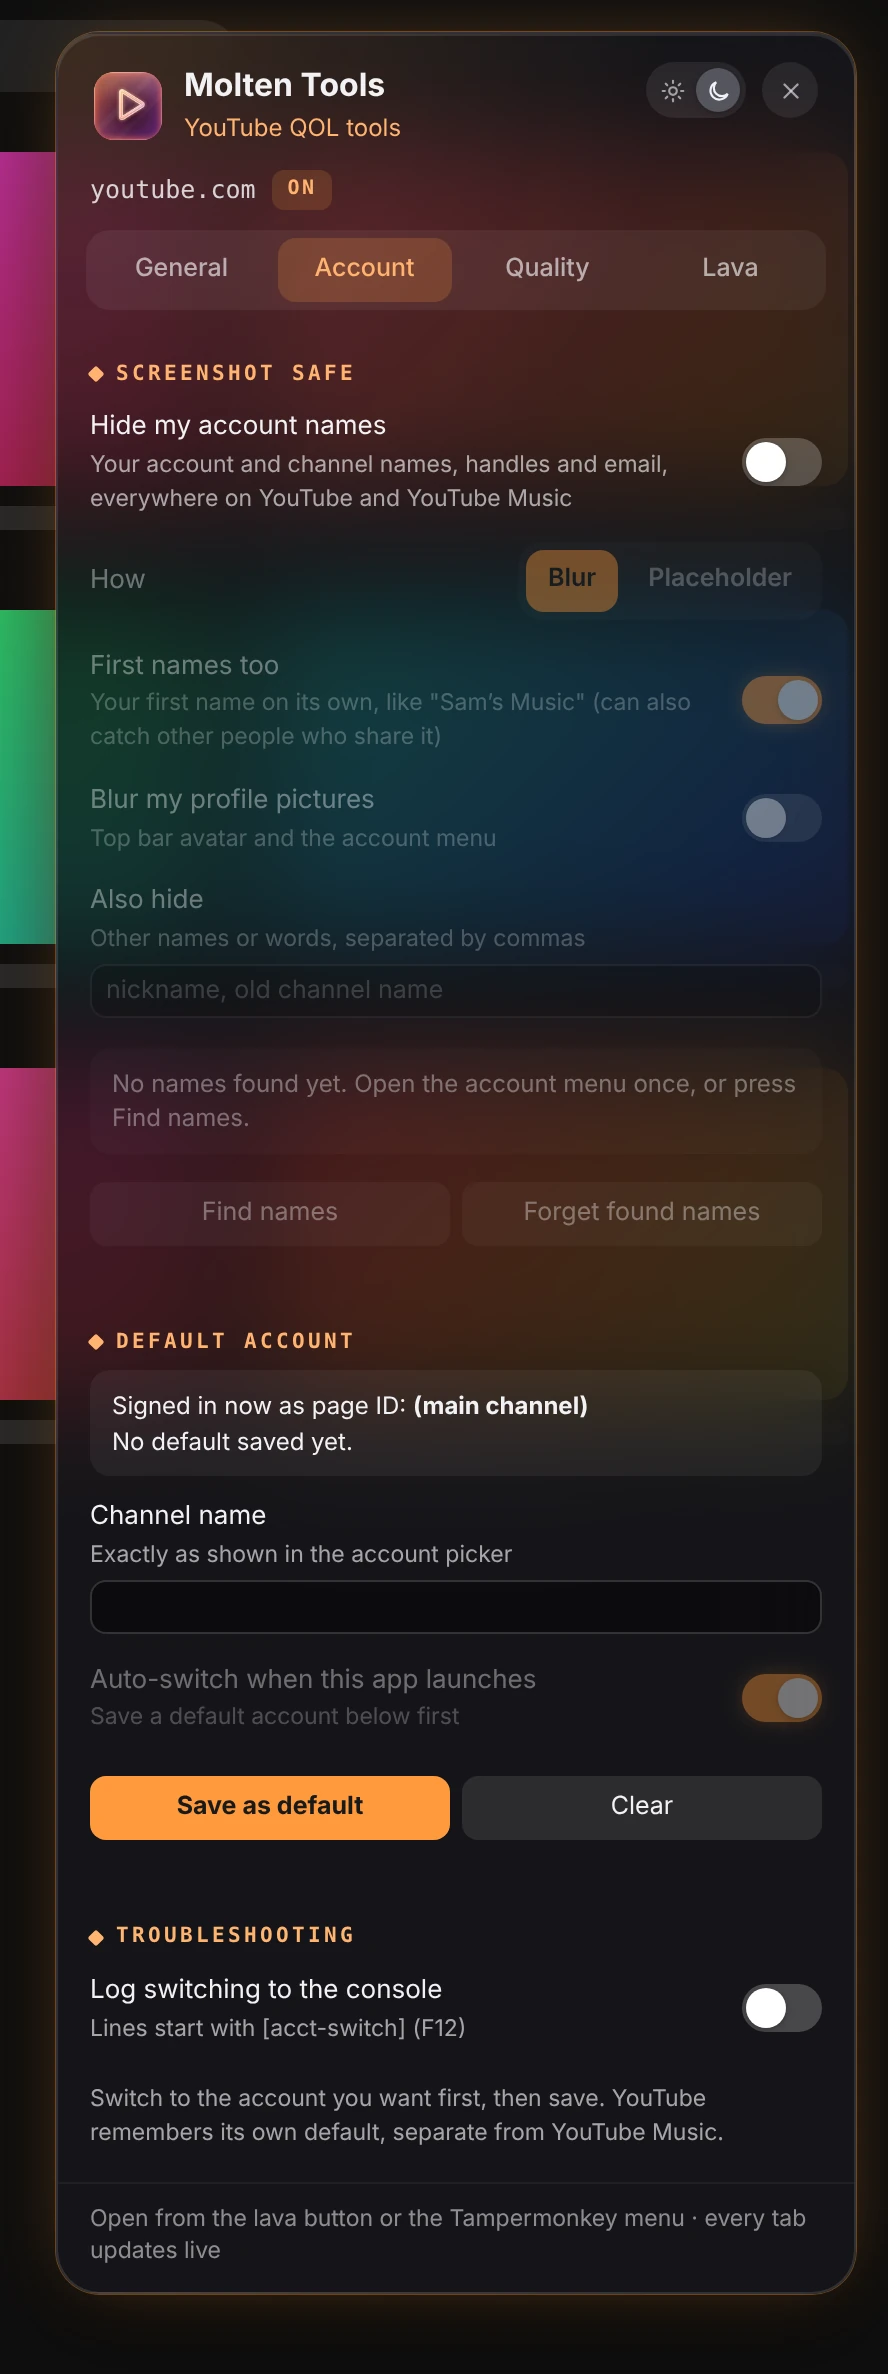
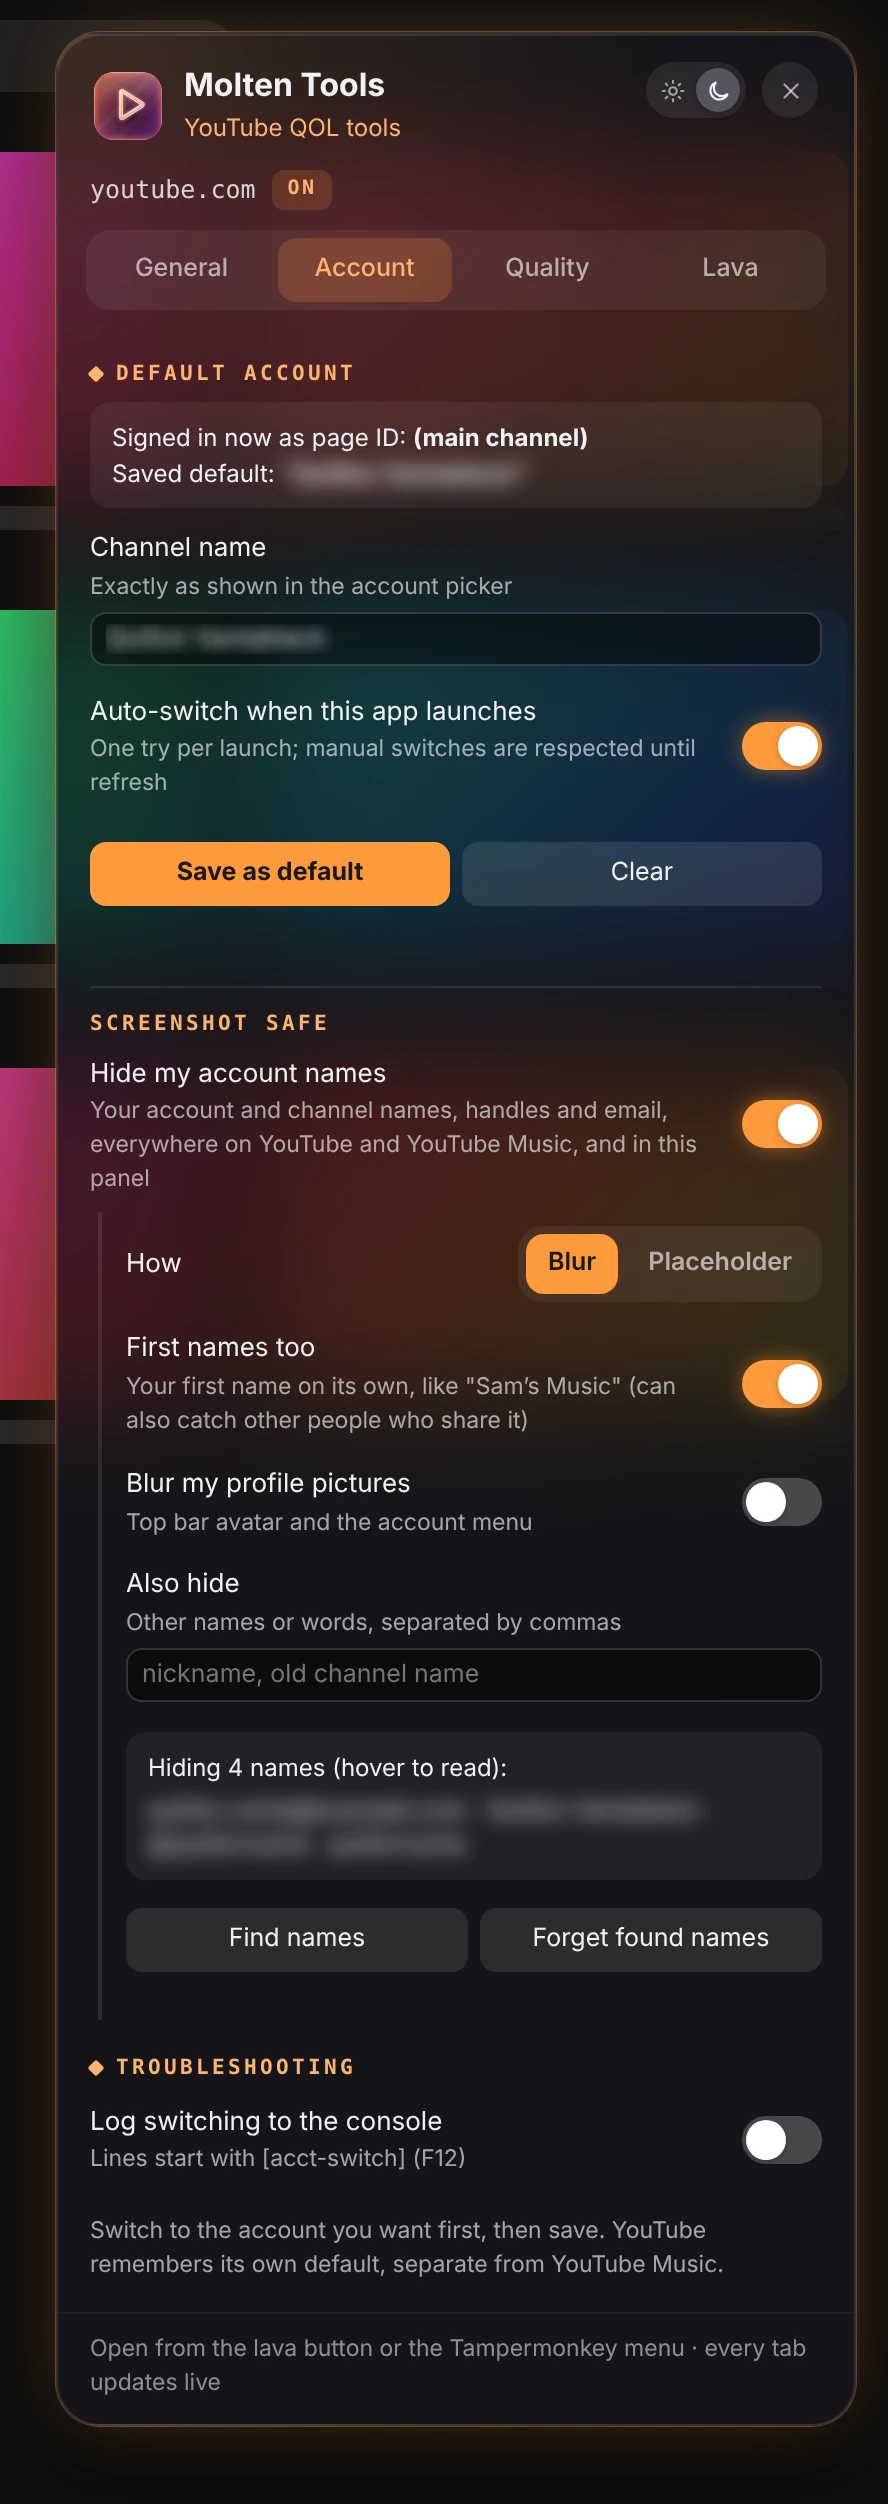
Molten Tools 3.8.0: Screenshot safe moves under Default account and folds away when off
The Account tab now starts with Default account; Screenshot safe sits under it as a subsection. Its
switch always shows, and its settings (How, first names, profile pictures, Also hide, found names)
appear only while it's on, instead of staying visible but dimmed. While it's on, the panel also hides
the saved account name and page ID (blurred, or the placeholder), readable when pointed at or while
typing in the box.

The screenshot demo data turns Screenshot safe on and saves a made-up default account
(tools/seeds/molten-ls.json), so the page shows the new layout; tools/carry.py now replaces page
storage seeds as well as Tampermonkey ones.

diff --git a/desktop/molten-tools/molten-tools.user.js b/desktop/molten-tools/molten-tools.user.js
@@ -1,7 +1,7 @@
 // ==UserScript==
 // @name         Molten Tools
 // @namespace    jigglypug
-// @version      3.7.8
+// @version      3.8.0
 // @description  YouTube QOL tools for YouTube and YouTube Music: a molten-glass lava theme with profiles, automatic video quality, auto-dismiss for "Still watching?", a title bar and seek bar that match the album art, a default-account switcher, and a screenshot-safe mode that hides your account names. Click the orange lava button in the top bar for settings.
 // @match        https://www.youtube.com/*
 // @match        https://music.youtube.com/*
@@ -4638,6 +4638,13 @@ html[data-lava-on] ytd-commentbox #underline .style-scope[class*="focus"] {
       '#ytt-panel input.ytt-text{width:100%;margin-top:4px}' +
       '#ytt-panel .ytt-names-list{margin-top:4px;filter:blur(5px);transition:filter .2s;word-break:break-word}' +
       '#ytt-panel .ytt-names:hover .ytt-names-list{filter:none}' +
+      // Screenshot safe under Default account; names in the panel itself hidden while it's on
+      '#ytt-panel .ytt-ss{margin:16px 0 0;padding-top:12px;border-top:1px solid var(--mt-line)}' +
+      '#ytt-panel .ytt-subhead{color:var(--mt-ink);font:700 10.5px/1.2 ui-monospace,"SF Mono","Cascadia Mono",Menlo,monospace !important;letter-spacing:.16em;text-transform:uppercase;margin:0 0 2px}' +
+      '#ytt-panel .ytt-subgrp{margin:2px 0 0 4px;padding:0 0 0 12px;border-left:2px solid var(--mt-line)}' +
+      '#ytt-panel b.ytt-secret{filter:blur(5px);transition:filter .2s}' +
+      '#ytt-panel b.ytt-secret:hover{filter:none}' +
+      '#ytt-panel input.ytt-secret:not(:focus){color:transparent!important;text-shadow:0 0 7px var(--mt-text)}' +
       '#ytt-panel select.ytt-sel{max-width:170px;cursor:pointer}' +
       '#ytt-panel select.ytt-sel option{background:var(--mt-solid);color:var(--mt-text)}' +
       '#ytt-panel .ytt-btns{display:grid;grid-auto-flow:column;grid-auto-columns:minmax(0,1fr);gap:6px;margin-top:14px}.ytt-btns>.ytt-btn{text-align:center}' +
@@ -4805,64 +4812,28 @@ html[data-lava-on] ytd-commentbox #underline .style-scope[class*="focus"] {
 
     // ---------------- Account tab ----------------
     function buildAccount(body) {
-      // ---- Screenshot safe ----
-      section(body, 'Screenshot safe');
-      toggleRow(body, 'Hide my account names', 'Your account and channel names, handles and email, everywhere on ' + SITE_NAME + ' and ' +
-        (IS_MUSIC ? 'YouTube' : 'YouTube Music'), () => PRIV.get('on'), v => { PRIV.set('on', v); render(); });
-      const pv = el('div', PRIV.get('on') ? '' : 'ytt-off');
-      selectRow(pv, 'How', null, [['blur', 'Blur'], ['text', 'Placeholder']], () => PRIV.get('mode'), v => { PRIV.set('mode', v); render(); });
-      if (PRIV.get('mode') === 'text') {
-        const pf = el('div', 'ytt-field');
-        pf.append(labelBlock('Placeholder', 'Shown instead of the name, e.g. "Made for User"'));
-        const pin = el('input', 'ytt-text');
-        pin.type = 'text';
-        pin.value = PRIV.get('placeholder');
-        pin.addEventListener('change', () => PRIV.set('placeholder', pin.value.trim() || 'User'));
-        pf.append(pin);
-        pv.append(pf);
-      }
-      toggleRow(pv, 'First names too', 'Your first name on its own, like "Sam\u2019s Music" (can also catch other people who share it)',
-        () => PRIV.get('firstNames'), v => PRIV.set('firstNames', v));
-      toggleRow(pv, 'Blur my profile pictures', 'Top bar avatar and the account menu', () => PRIV.get('avatars'), v => PRIV.set('avatars', v));
-      const ef = el('div', 'ytt-field');
-      ef.append(labelBlock('Also hide', 'Other names or words, separated by commas'));
-      const ein = el('input', 'ytt-text');
-      ein.type = 'text';
-      ein.value = PRIV.get('extra');
-      ein.placeholder = 'nickname, old channel name';
-      ein.addEventListener('change', () => PRIV.set('extra', ein.value));
-      ef.append(ein);
-      pv.append(ef);
-      const found = PRIV.names();
-      const nf = el('div', 'ytt-info ytt-names');
-      nf.append(el('div', null, found.length ? 'Hiding ' + found.length + ' name' + (found.length === 1 ? '' : 's') + ' (hover to read):' :
-        'No names found yet. Open the account menu once, or press Find names.'));
-      if (found.length) nf.append(el('div', 'ytt-names-list', found.join(' \u00b7 ')));
-      pv.append(nf);
-      const pst = el('div', 'ytt-status');
-      const pb = el('div', 'ytt-btns');
-      btn(pb, 'Find names', async () => {
-        pst.textContent = 'Looking\u2026';
-        const ok = await PRIV.fetchNames();
-        pst.textContent = ok ? 'Updated from your account list.' : 'Could not read the account list here; open the account menu once instead.';
-        if (ok) render();
-      });
-      btn(pb, 'Forget found names', () => { PRIV.forget(); render(); });
-      pv.append(pb, pst);
-      body.append(pv);
-
+      // ---- Default account, with Screenshot safe under it ----
+      // While Screenshot safe is on, this panel hides the account's name and page ID too (blurred, or the
+      // placeholder): readable only while you point at it or type in the box.
+      const hiding = !!PRIV.get('on');
+      const secret = text => {
+        if (!hiding) return el('b', null, text);
+        return PRIV.get('mode') === 'text' ? el('b', null, PRIV.get('placeholder') || 'User') : el('b', 'ytt-secret', text);
+      };
       section(body, 'Default account');
       const saved = ACCT.loadCfg();
       const id = ACCT.currentId();
       const info = el('div', 'ytt-info');
-      const l1 = el('div'); l1.append('Signed in now as page ID: ', el('b', null, id || '(main channel)'));
-      const l2 = el('div', null, saved ? 'Saved default: "' + saved.name + '"' : 'No default saved yet.');
+      const l1 = el('div'); l1.append('Signed in now as page ID: ', id ? secret(id) : el('b', null, '(main channel)'));
+      const l2 = el('div');
+      const showSaved = name => { l2.textContent = ''; if (name) l2.append('Saved default: ', secret('"' + name + '"')); else l2.append('No default saved yet.'); };
+      showSaved(saved && saved.name);
       info.append(l1, l2);
       body.append(info);
 
       const f = el('div', 'ytt-field');
       f.append(labelBlock('Channel name', 'Exactly as shown in the account picker'));
-      const input = el('input', 'ytt-text');
+      const input = el('input', 'ytt-text' + (hiding ? ' ytt-secret' : ''));
       input.type = 'text';
       input.value = saved ? saved.name : '';
       f.append(input);
@@ -4887,14 +4858,64 @@ html[data-lava-on] ytd-commentbox #underline .style-scope[class*="focus"] {
         if (!name) return say('Enter the channel name first.', true);
         ACCT.saveCfg({ enabled, name, id: ACCT.currentId() });
         say('Saved. Applies the next time the app launches.');
-        l2.textContent = 'Saved default: "' + name + '"';
+        showSaved(name);
       }, true);
       btn(btns, 'Clear', () => {
         ACCT.clearCfg();
         say('Default cleared.');
-        l2.textContent = 'No default saved yet.';
+        showSaved(null);
       });
       body.append(btns, status);
+
+      // Screenshot safe: its switch always shows; its settings only while it's on
+      const ss = el('div', 'ytt-ss');
+      ss.append(el('div', 'ytt-subhead', 'Screenshot safe'));
+      toggleRow(ss, 'Hide my account names', 'Your account and channel names, handles and email, everywhere on ' + SITE_NAME + ' and ' +
+        (IS_MUSIC ? 'YouTube' : 'YouTube Music') + ', and in this panel', () => PRIV.get('on'), v => { PRIV.set('on', v); render(); });
+      body.append(ss);
+      if (hiding) {
+        const pv = el('div', 'ytt-subgrp');
+        selectRow(pv, 'How', null, [['blur', 'Blur'], ['text', 'Placeholder']], () => PRIV.get('mode'), v => { PRIV.set('mode', v); render(); });
+        if (PRIV.get('mode') === 'text') {
+          const pf = el('div', 'ytt-field');
+          pf.append(labelBlock('Placeholder', 'Shown instead of the name, e.g. "Made for User"'));
+          const pin = el('input', 'ytt-text');
+          pin.type = 'text';
+          pin.value = PRIV.get('placeholder');
+          pin.addEventListener('change', () => { PRIV.set('placeholder', pin.value.trim() || 'User'); render(); });
+          pf.append(pin);
+          pv.append(pf);
+        }
+        toggleRow(pv, 'First names too', 'Your first name on its own, like "Sam\u2019s Music" (can also catch other people who share it)',
+          () => PRIV.get('firstNames'), v => PRIV.set('firstNames', v));
+        toggleRow(pv, 'Blur my profile pictures', 'Top bar avatar and the account menu', () => PRIV.get('avatars'), v => PRIV.set('avatars', v));
+        const ef = el('div', 'ytt-field');
+        ef.append(labelBlock('Also hide', 'Other names or words, separated by commas'));
+        const ein = el('input', 'ytt-text');
+        ein.type = 'text';
+        ein.value = PRIV.get('extra');
+        ein.placeholder = 'nickname, old channel name';
+        ein.addEventListener('change', () => PRIV.set('extra', ein.value));
+        ef.append(ein);
+        pv.append(ef);
+        const found = PRIV.names();
+        const nf = el('div', 'ytt-info ytt-names');
+        nf.append(el('div', null, found.length ? 'Hiding ' + found.length + ' name' + (found.length === 1 ? '' : 's') + ' (hover to read):' :
+          'No names found yet. Open the account menu once, or press Find names.'));
+        if (found.length) nf.append(el('div', 'ytt-names-list', found.join(' \u00b7 ')));
+        pv.append(nf);
+        const pst = el('div', 'ytt-status');
+        const pb = el('div', 'ytt-btns');
+        btn(pb, 'Find names', async () => {
+          pst.textContent = 'Looking\u2026';
+          const ok = await PRIV.fetchNames();
+          pst.textContent = ok ? 'Updated from your account list.' : 'Could not read the account list here; open the account menu once instead.';
+          if (ok) render();
+        });
+        btn(pb, 'Forget found names', () => { PRIV.forget(); render(); });
+        pv.append(pb, pst);
+        body.append(pv);
+      }
 
       section(body, 'Troubleshooting');
       toggleRow(body, 'Log switching to the console', 'Lines start with [acct-switch] (F12)', ACCT.debugOn, ACCT.setDebug);

diff --git a/docs/desktop/molten-tools/index.html b/docs/desktop/molten-tools/index.html
@@ -13,7 +13,7 @@
 <img class="heroicon" src="../../img/molten-tools/icon.png" alt="Molten Tools icon" width="104" height="104">
 <div class="label">Desktop userscript</div>
 <h1>Molten Tools</h1><p class="tag">Molten glass and quality-of-life fixes for YouTube.</p><p class="intro">Molten Tools gives YouTube and YouTube Music a molten-glass lava background, plus a set of quality-of-life fixes. Click the orange lava button in the top bar for settings.</p>
-<div class="chips"><span class="chip">YouTube, YouTube Music</span><span class="chip">Desktop</span><span class="chip">v3.7.8</span></div>
+<div class="chips"><span class="chip">YouTube, YouTube Music</span><span class="chip">Desktop</span><span class="chip">v3.8.0</span></div>
 <div class="acts"><a class="btn pri big" href="https://raw.githubusercontent.com/JigglyPug/glassware/main/desktop/molten-tools/molten-tools.user.js">Install Molten Tools</a><a class="btn sec big" href="https://github.com/JigglyPug/glassware/blob/main/desktop/molten-tools/molten-tools.user.js">View source</a></div>
 </div><figure class="glass"><img class="dk" src="../../img/molten-tools/general.webp" alt="Molten Tools panel" loading="lazy"><img class="lt" src="../../img/molten-tools/general-light.webp" alt="Molten Tools panel" loading="lazy"></figure></header>
 
@@ -21,7 +21,7 @@
 <section><div class="label">A closer look</div><div class="gal"><figure class="glass"><img class="dk" src="../../img/molten-tools/account.webp" alt="Account" loading="lazy"><img class="lt" src="../../img/molten-tools/account-light.webp" alt="Account" loading="lazy"><figcaption>Account</figcaption></figure><figure class="glass"><img class="dk" src="../../img/molten-tools/quality.webp" alt="Quality" loading="lazy"><img class="lt" src="../../img/molten-tools/quality-light.webp" alt="Quality" loading="lazy"><figcaption>Quality</figcaption></figure><figure class="glass"><img class="dk" src="../../img/molten-tools/lava.webp" alt="Lava" loading="lazy"><img class="lt" src="../../img/molten-tools/lava-light.webp" alt="Lava" loading="lazy"><figcaption>Lava</figcaption></figure></div></section>
 
 
-<section><div class="label">What's new</div><div class="note glass news"><p><b>3.7.8</b> <span class="when">2026-11-07</span> Logs never name your accounts, and no more bouncing between pages when the saved account is missing.</p><p><b>3.7.7</b> <span class="when">2026-11-07</span> Security fixes.</p><p><b>3.7.6</b> <span class="when">2026-11-06</span> Rows of buttons share the width evenly.</p><p><a href="https://github.com/JigglyPug/glassware/blob/main/desktop/molten-tools/CHANGES.md">Every change</a></p></div></section>
+<section><div class="label">What's new</div><div class="note glass news"><p><b>3.8.0</b> <span class="when">2026-11-10</span> Screenshot safe now sits under Default account in the Account tab. While it's off, only its switch shows; turn it on and its settings open up. While Screenshot safe is on, the panel hides your saved account name and page ID too. Point at them, or click into the box, to read them.</p><p><b>3.7.8</b> <span class="when">2026-11-07</span> Logs never name your accounts, and no more bouncing between pages when the saved account is missing.</p><p><b>3.7.7</b> <span class="when">2026-11-07</span> Security fixes.</p><p><a href="https://github.com/JigglyPug/glassware/blob/main/desktop/molten-tools/CHANGES.md">Every change</a></p></div></section>
 <section><div class="label">More for desktop</div><div class="more"><a class="glass" href="../../desktop/hourglass/" style="--acc:#5b5bd6"><img class="appicon" src="../../img/hourglass/icon.png" alt="" width="36" height="36"><b>Hourglass</b><small>Screen time and lockdown for every site.</small></a><a class="glass" href="../../desktop/looking-glass/" style="--acc:#3b6fd6"><img class="appicon" src="../../img/looking-glass/icon.png" alt="" width="36" height="36"><b>Looking-Glass</b><small>Open any video on its own.</small></a><a class="glass" href="../../desktop/prism/" style="--acc:#3b6fd6"><img class="appicon" src="../../img/prism/icon.png" alt="" width="36" height="36"><b>Prism</b><small>Every app title bar, in its site's own color.</small></a><a class="glass" href="../../desktop/molten-for-reddit/" style="--acc:#ff8a3d"><img class="appicon" src="../../img/molten-for-reddit/icon.png" alt="" width="36" height="36"><b>Molten for Reddit</b><small>Molten glass for new Reddit.</small></a><a class="glass" href="../../desktop/kaleidoscope/" style="--acc:#3db4f2"><img class="appicon" src="../../img/kaleidoscope/icon.png" alt="" width="36" height="36"><b>Kaleidoscope</b><small>Your AniList list, turned into your next favorite.</small></a></div></section>
 </main>
 <footer>Made by <b>JigglyPug</b> · Built for <a href="https://www.tampermonkey.net/">Tampermonkey</a> · <a href="https://github.com/JigglyPug/glassware">Source on GitHub</a><span class="matchwrap" hidden> · <button class="match" type="button">Match my device</button></span></footer>

diff --git a/tools/screens.py b/tools/screens.py
@@ -28,7 +28,7 @@ JOBS = {
     'desktop/prism':          ('https://example.com/', 'Open Prism', [], []),
     'desktop/hourglass':      ('https://www.youtube.com/', 'Open', ['--seed', f'{HERE}/seeds/hourglass.json'], ['Schedule', 'Sites', 'Settings']),
     'desktop/looking-glass':  ('https://example.com/', 'Open Looking', ['--video'], []),
-    'desktop/molten-tools':   ('https://www.youtube.com/', 'Open Molten', ['--seed', f'{HERE}/seeds/molten.json'], ['General', 'Account', 'Quality']),
+    'desktop/molten-tools':   ('https://www.youtube.com/', 'Open Molten', ['--seed', f'{HERE}/seeds/molten.json', '--seedls', f'{HERE}/seeds/molten-ls.json'], ['General', 'Account', 'Quality']),
     'desktop/molten-for-reddit': ('https://www.reddit.com/', 'Open Molten', ['--seed', f'{HERE}/seeds/molten.json'], ['General', 'Video', 'Reddit', 'Search']),
     'desktop/kaleidoscope':   (ANI, 'Open Kaleidoscope', [], ['Sequels', 'Settings']),
     'mobile/kaleidoscope-mobile': (ANI, 'Open Kaleidoscope', ['--mobile'], ['Sequels', 'Settings']),

diff --git a/tools/carry.py b/tools/carry.py
@@ -81,9 +81,10 @@ def run(script, p, mode, seed=None, seedls=None):
     url, cmd, extra, tabs = JOBS[p]
     tabs = ([FIRST[p]] + tabs) if p in FIRST else tabs
     args = ['node', f'{HERE}/shot.js', script, url, '/dev/null', '--cmd', cmd, '--' + mode, '--clock', CLOCK, '--vh', '1400']
-    if seed:   # the saved data replaces any demo seed
-        i = extra.index('--seed') if '--seed' in extra else -1
-        extra = extra[:i] + extra[i + 2:] if i >= 0 else extra
+    if seed:   # the saved data replaces any demo seed (storage and page storage both)
+        for flag in ('--seed', '--seedls'):
+            i = extra.index(flag) if flag in extra else -1
+            extra = extra[:i] + extra[i + 2:] if i >= 0 else extra
         args += extra + ['--seed', seed]
     else: args += extra
     if seedls: args += ['--seedls', seedls]

diff --git a/desktop/molten-tools/README.md b/desktop/molten-tools/README.md
@@ -4,7 +4,7 @@
 
 <img src="images/banner.svg" alt="Molten Tools: Molten glass and quality-of-life fixes for YouTube." width="100%">
 
-[![Install](https://img.shields.io/badge/Install-v3.7.8-ff8a3d?style=for-the-badge)](https://raw.githubusercontent.com/JigglyPug/glassware/main/desktop/molten-tools/molten-tools.user.js) [![Website](https://img.shields.io/badge/Website-product%20page-222?style=for-the-badge)](https://jigglypug.github.io/glassware/desktop/molten-tools/)
+[![Install](https://img.shields.io/badge/Install-v3.8.0-ff8a3d?style=for-the-badge)](https://raw.githubusercontent.com/JigglyPug/glassware/main/desktop/molten-tools/molten-tools.user.js) [![Website](https://img.shields.io/badge/Website-product%20page-222?style=for-the-badge)](https://jigglypug.github.io/glassware/desktop/molten-tools/)
 
 ![Runs on](https://img.shields.io/badge/runs%20on-YouTube%2C%20YouTube%20Music-555?style=flat-square) ![Platform](https://img.shields.io/badge/platform-Desktop-555?style=flat-square)
 
@@ -33,8 +33,8 @@ Molten Tools gives YouTube and YouTube Music a molten-glass lava background, plu
 
 ## What's new
 
+- **3.8.0** (2026-11-10): Screenshot safe now sits under Default account in the Account tab. While it's off, only its switch shows; turn it on and its settings open up. While Screenshot safe is on, the panel hides your saved account name and page ID too. Point at them, or click into the box, to read them.
 - **3.7.8** (2026-11-07): Logs never name your accounts, and no more bouncing between pages when the saved account is missing.
 - **3.7.7** (2026-11-07): Security fixes.
-- **3.7.6** (2026-11-06): Rows of buttons share the width evenly.
 
 [Every change](CHANGES.md)

diff --git a/desktop/molten-tools/CHANGES.md b/desktop/molten-tools/CHANGES.md
@@ -2,6 +2,11 @@
 
 Newest first.
 
+## 3.8.0 · 2026-11-10
+
+- Screenshot safe now sits under Default account in the Account tab. While it's off, only its switch shows; turn it on and its settings open up.
+- While Screenshot safe is on, the panel hides your saved account name and page ID too. Point at them, or click into the box, to read them.
+
 ## 3.7.8 · 2026-11-07
 
 - Logs never name your accounts, and no more bouncing between pages when the saved account is missing.
